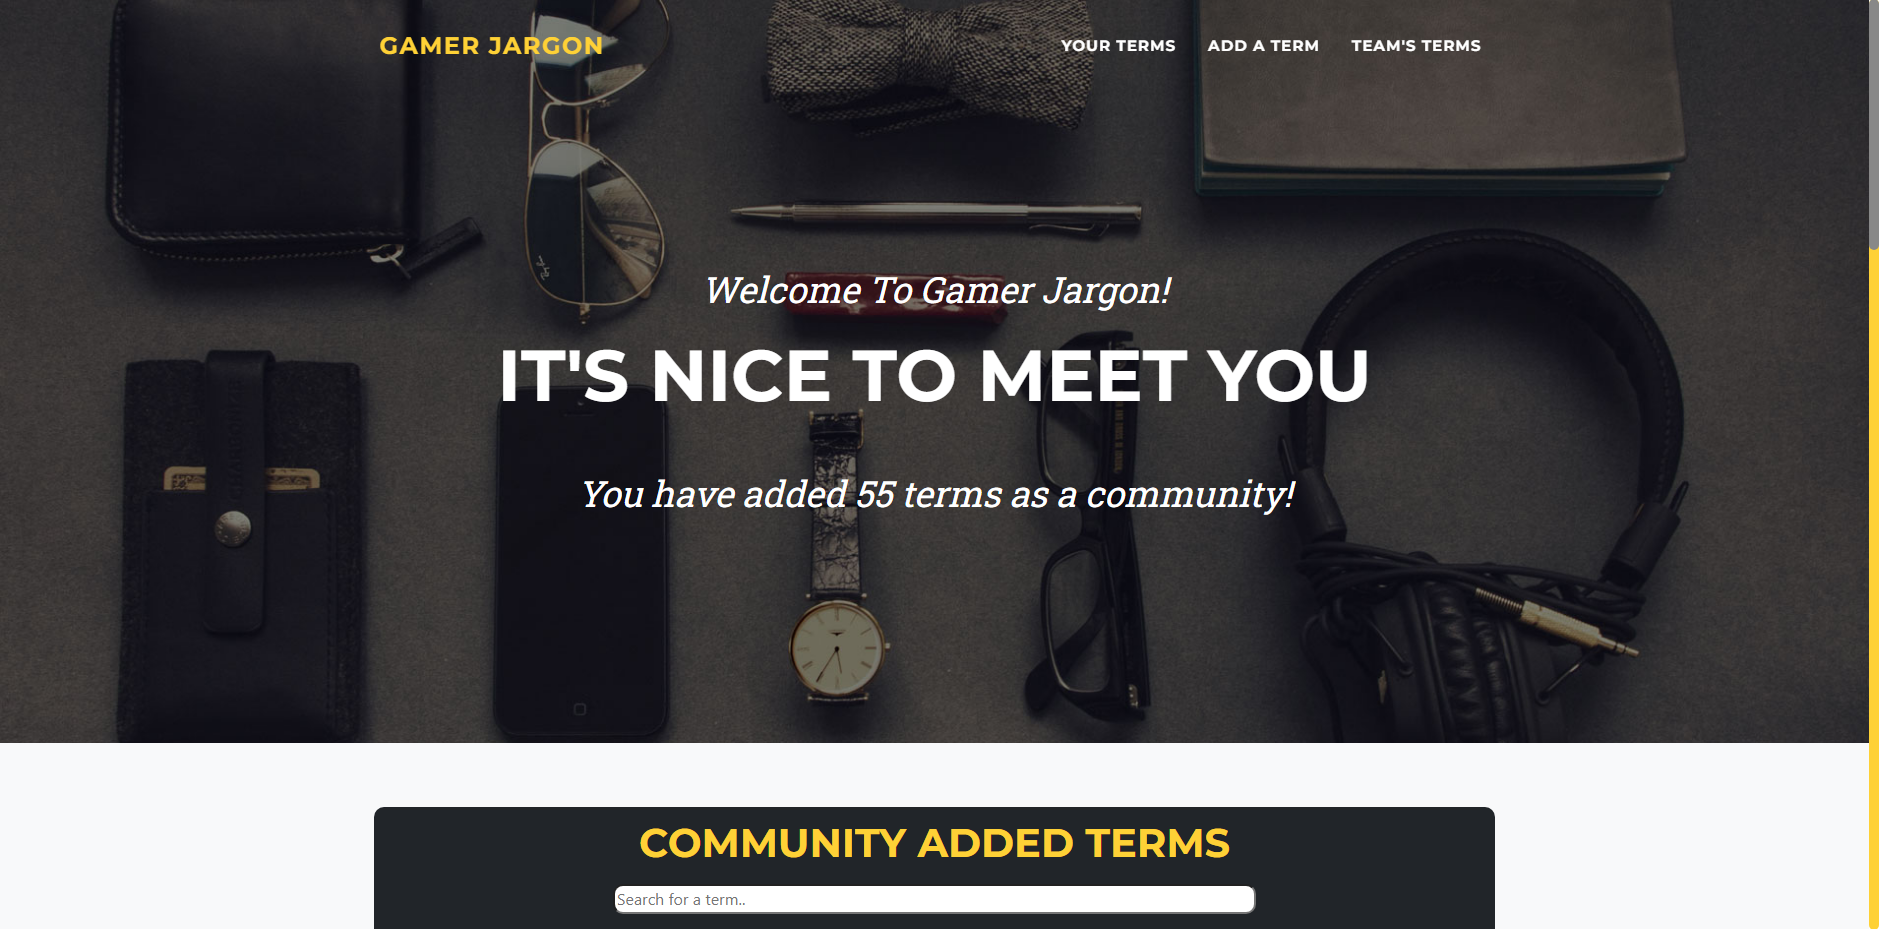
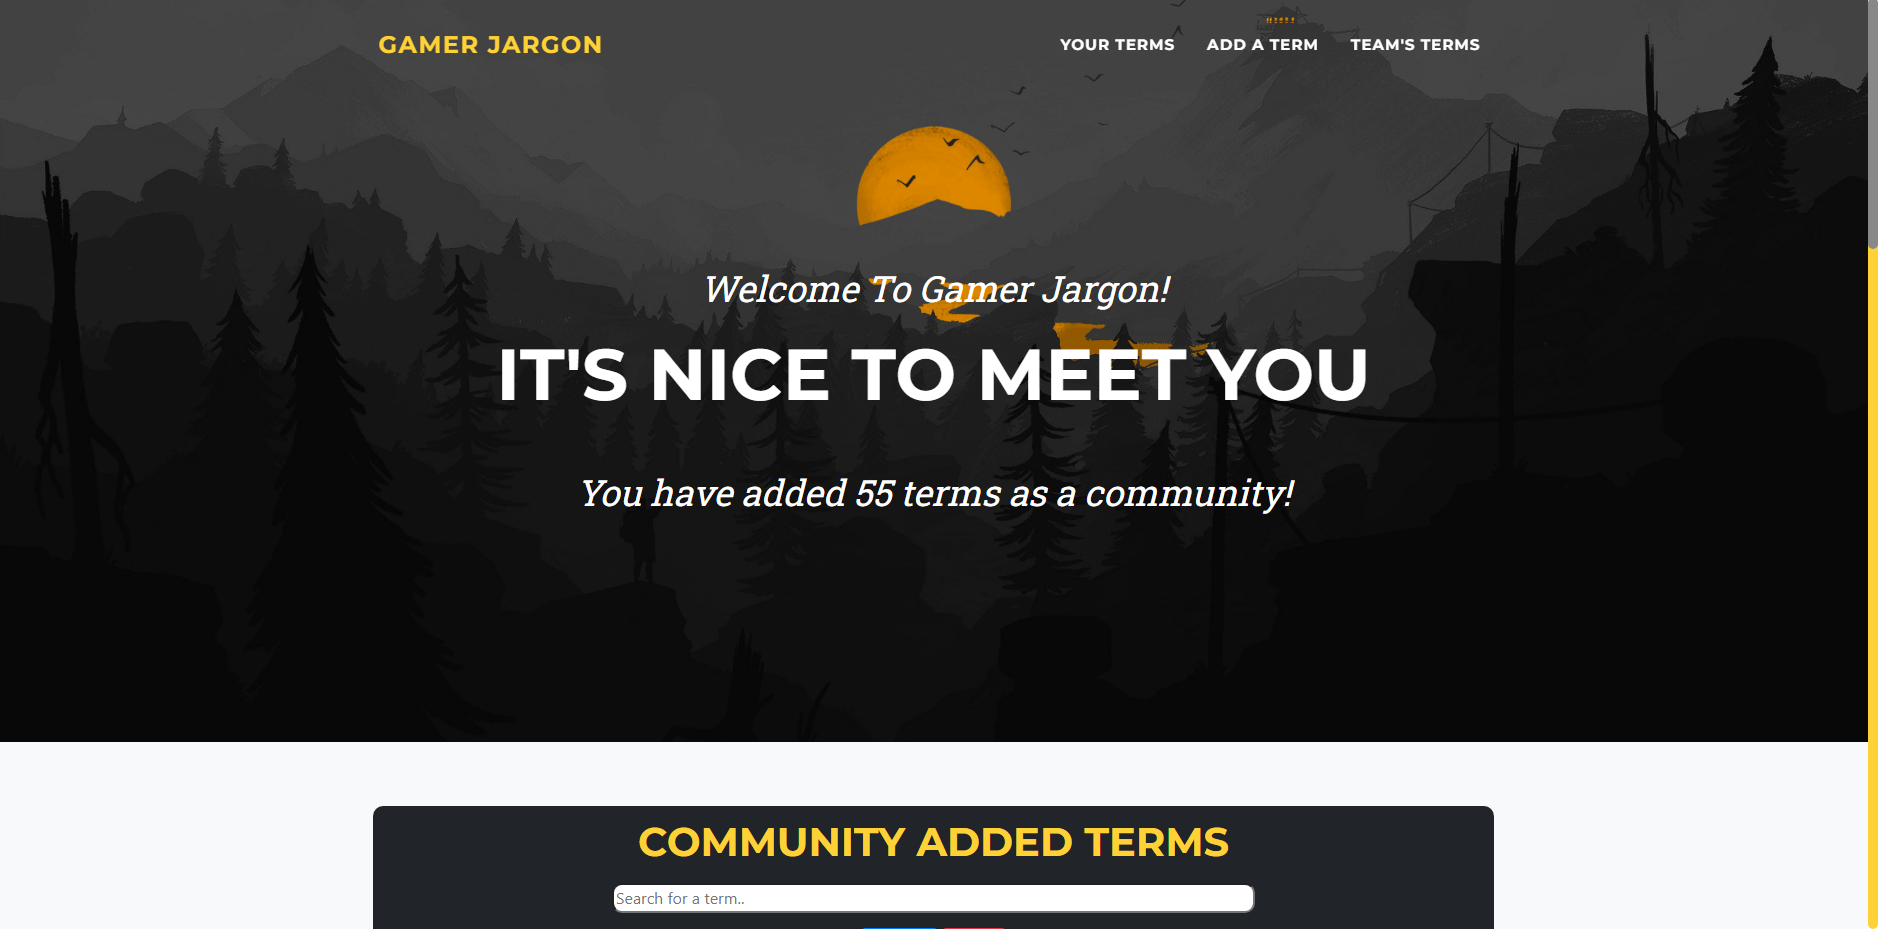
Updated Hero Image

diff --git a/static/css/styles.css b/static/css/styles.css
@@ -11259,7 +11259,7 @@ header.masthead {
   padding-bottom: 6rem;
   text-align: center;
   color: #fff;
-  background-image: url("../assets/img/header-bg.jpg");
+  background-image: url("../assets/img/gamer-jargon-hero-image.jpeg");
   background-repeat: no-repeat;
   background-attachment: scroll;
   background-position: center center;

diff --git a/README.md b/README.md
@@ -349,6 +349,7 @@ Gamer Jargon uses the following technologies:
 - Django: [Learn more about Django](https://en.wikipedia.org/wiki/Django_(web_framework))
 - HTML: [Learn more about HTML](https://en.wikipedia.org/wiki/HTML)
 - CSS: [Learn more about CSS](https://en.wikipedia.org/wiki/Cascading_Style_Sheets)
+- Bootstrap: [Learn more about Bootstrap](https://startbootstrap.com/theme/agency)
 
 ## Frameworks, Libraries & Programs Used
 
@@ -363,6 +364,9 @@ GitHub is used to store the projects code after being pushed from Git.
 
 - Google Sheets (https://docs.google.com/spreadsheets)
 Google Sheets was integral to host the data for the webapp.
+
+- Start Bootstrap (https://startbootstrap.com/theme/agency)
+This theme assisted me with getting the UI for my page. 
 
 ## Deployment
 
